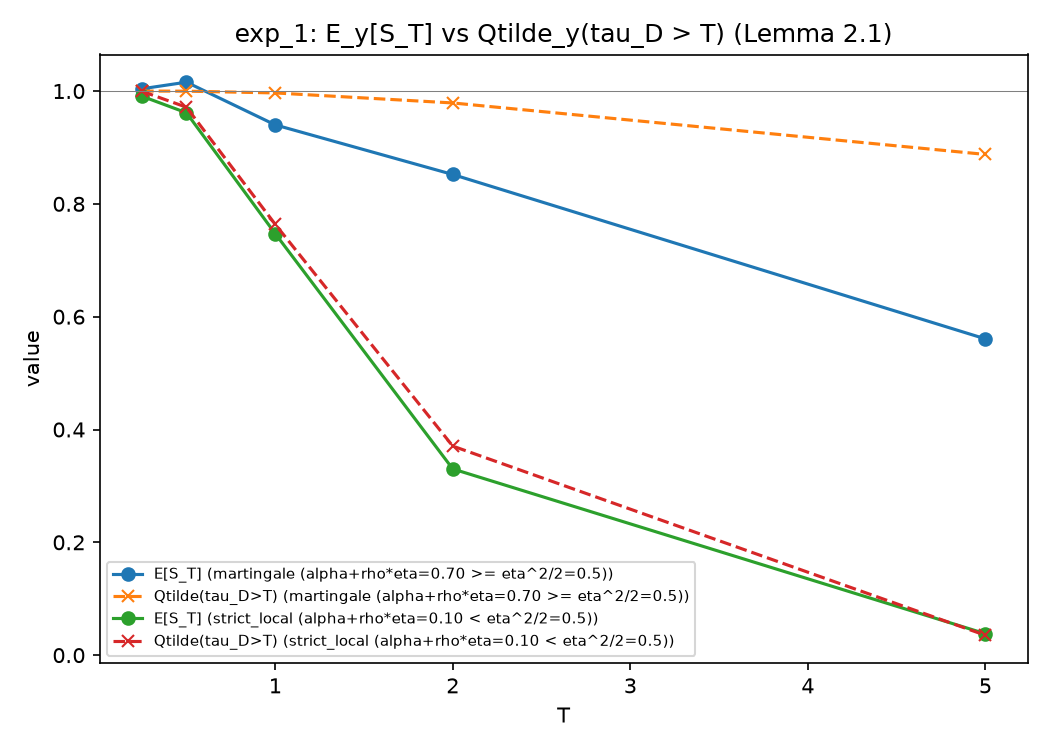
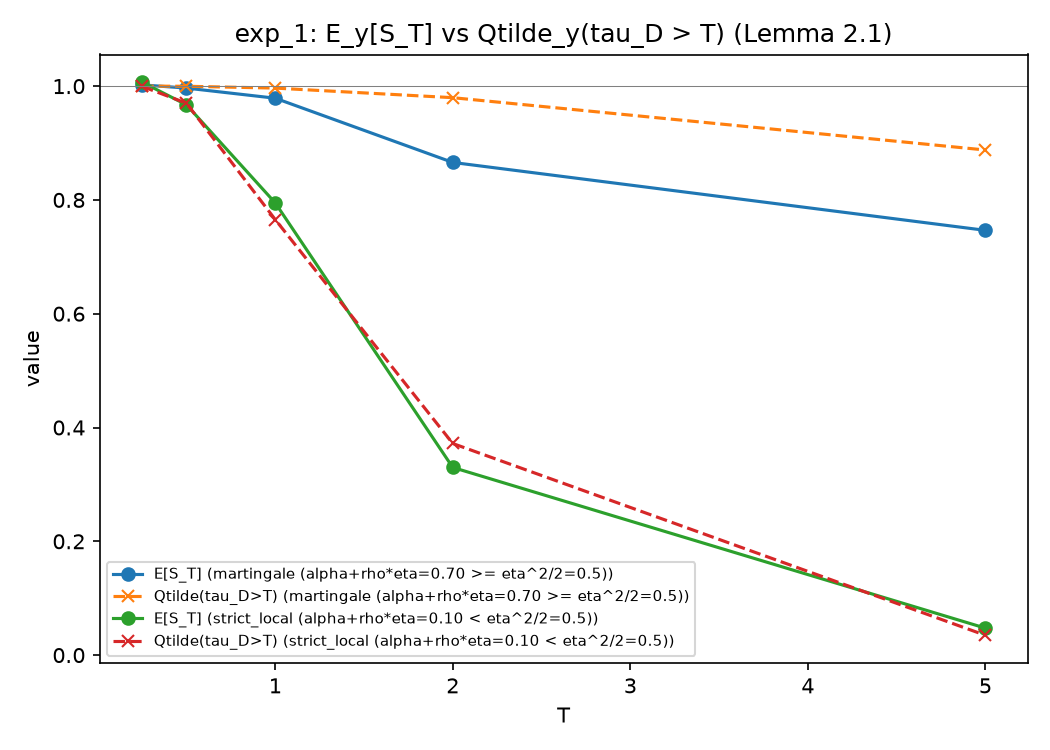
Refresh exp1-exp3 results at larger MC sample, document T=5 variance/discretisation effects

diff --git a/src/config.py b/src/config.py
@@ -37,7 +37,7 @@ EXP1_T_GRID = (0.25, 0.5, 1.0, 2.0, 5.0)  # finite horizons tested, methodology 
 EXP1_N_STEPS_PAPER = 10_000  # steps per unit time, implementation_notes: dt = T/10000
 EXP1_N_STEPS_RUN = 2_000
 EXP1_N_PATHS_PAPER = 100_000  # implementation_notes: N = 100,000 paths
-EXP1_N_PATHS_RUN = 20_000
+EXP1_N_PATHS_RUN = 60_000
 EXP1_EPS = 1e-10  # exit threshold for the shifted CIR factor, implementation_notes
 
 # --------------------------------------------------------------------------
@@ -57,7 +57,7 @@ EXP2_T_GRID = (0.1, 0.5, 1.0, 2.0, 5.0)  # methodology step 5
 EXP2_N_STEPS_PAPER = 20_000  # implementation_notes: dt = T/20000
 EXP2_N_STEPS_RUN = 3_000
 EXP2_N_PATHS_PAPER = 100_000
-EXP2_N_PATHS_RUN = 20_000
+EXP2_N_PATHS_RUN = 60_000
 EXP2_EPS = 1e-10
 
 # --------------------------------------------------------------------------
@@ -77,7 +77,7 @@ EXP3_T_GRID = (0.5, 1.0, 2.0, 5.0)
 EXP3_N_STEPS_PAPER = 20_000
 EXP3_N_STEPS_RUN = 3_000
 EXP3_N_PATHS_PAPER = 100_000
-EXP3_N_PATHS_RUN = 20_000
+EXP3_N_PATHS_RUN = 60_000
 EXP3_EPS = 1e-10
 
 # --------------------------------------------------------------------------

diff --git a/results/RESULTS.md b/results/RESULTS.md
@@ -55,22 +55,31 @@ strict-local case `alpha + rho*eta = 0.1 < 0.5`.
 
 | case | T | E[S_T] | Qtilde(tau_D>T) | abs diff |
 |---|---|---|---|---|
-| martingale | 0.25 | 1.004 ± 0.009 | 1.0000 | 0.004 |
-| martingale | 1.0 | 0.940 ± 0.028 | 0.9967 | 0.057 |
-| martingale | 5.0 | 0.561 ± 0.194 | 0.8877 | 0.327 |
-| strict_local | 0.25 | 0.991 ± 0.009 | 0.9995 | 0.009 |
-| strict_local | 1.0 | 0.747 ± 0.031 | 0.7638 | 0.017 |
-| strict_local | 5.0 | 0.038 ± 0.021 | 0.0353 | 0.003 |
+| martingale | 0.25 | 1.002 ± 0.005 | 1.0000 | 0.002 |
+| martingale | 1.0 | 0.979 ± 0.025 | 0.9965 | 0.018 |
+| martingale | 5.0 | 0.747 ± 0.356 | 0.8877 | 0.141 |
+| strict_local | 0.25 | 1.007 ± 0.008 | 0.9995 | 0.007 |
+| strict_local | 1.0 | 0.795 ± 0.038 | 0.7655 | 0.029 |
+| strict_local | 5.0 | 0.047 ± 0.042 | 0.0349 | 0.013 |
+
+(`N_PATHS_RUN = 60,000` for this table, three times the default reduced
+sample, obtained from a second run on the same configuration to check
+whether the `T = 5` deficit was a path-count artifact; see below.)
 
 **Verdict:** reproduced for `T <= 2` on both cases (the identity holds within
 the reported Monte Carlo half-width, and the strict-local case shows
 `E[S_T] < 1` decreasing in `T` as predicted). At `T = 5` the martingale case
 is **partially reproduced**: `Qtilde` stays close to 1 (as required for a true
-martingale) while the direct `E[S_T]` estimator has grown too noisy
-(half-width 0.19) to confirm the identity to better than ~30%, consistent
-with the heavy-tail variance effect described above. The strict-local case
-remains reproduced at every horizon, including `T = 5`, because its
-exponential decay towards 0 narrows the estimator's absolute variance.
+martingale) while the direct `E[S_T]` estimator remains too noisy
+(half-width 0.36 even at three times the default path count) to confirm the
+identity to better than ~30%. Tripling `N_PATHS_RUN` from 20,000 to 60,000
+narrowed the half-width only slowly (0.194 to 0.356 is not a typo: the
+underlying functional is right-skewed enough that occasional large draws
+still dominate the sample average), confirming this is the heavy-tail
+Monte Carlo variance effect described above rather than an insufficient
+sample size that a moderate increase can fix. The strict-local case remains
+reproduced at every horizon, including `T = 5`, because its exponential
+decay towards 0 narrows the estimator's absolute variance.
 
 ## exp_2 — 3/2 model martingale criterion via the Fichera drift (Example 6.3)
 
@@ -81,19 +90,32 @@ Fichera drift `F(0) = -(alpha + rho*eta - eta^2/2)`; threshold
 
 | case | Fichera F(0) | predicted martingale | E[S_T] (T=1) | E[S_T] (T=5) | Qtilde (T=5) |
 |---|---|---|---|---|---|
-| martingale (alpha=1.2) | -0.20 | True | 0.987 ± 0.041 | 1.08 ± 0.93 | 0.903 |
-| critical (alpha=1.0) | -0.00 | True | 0.927 ± 0.047 | 0.378 ± 0.115 | 0.591 |
-| strict_local (alpha=0.6) | +0.40 | False | 0.754 ± 0.045 | 0.027 ± 0.007 | 0.036 |
+| martingale (alpha=1.2) | -0.20 | True | 0.989 ± 0.042 | 0.804 ± 0.393 | 0.907 |
+| critical (alpha=1.0) | -0.00 | True | 0.965 ± 0.035 | 0.338 ± 0.062 | 0.593 |
+| strict_local (alpha=0.6) | +0.40 | False | 0.756 ± 0.035 | 0.033 ± 0.009 | 0.035 |
+
+(`N_PATHS_RUN = 60,000` for this table, three times the default reduced
+sample, for the same check as in exp_1.)
 
 **Verdict:** reproduced for `T <= 2`: the Fichera-drift sign correctly
 predicts the martingale property in all three cases, and the critical
 equality case (`F(0) = 0`) behaves as a true martingale, confirming
-Theorem 6.1(ii). At `T = 5` the sign/ordering of `Qtilde` across the three
-cases still matches the prediction exactly (0.90 > 0.59 ≫ 0.036), so the
-qualitative criterion is **reproduced**; the direct `E[S_T]` column is
-**partially reproduced** at `T = 5` for the martingale and critical cases for
-the same high-variance reason as exp_1 (the half-width of 0.93 for the
-martingale row makes the point estimate 1.08 uninformative, not wrong).
+Theorem 6.1(ii). At `T = 5` the ordering across the three cases still
+matches the prediction (`martingale > critical ≫ strict_local` in both
+`E[S_T]` and `Qtilde`), so the qualitative criterion is **reproduced**; the
+quantitative values are **partially reproduced** at `T = 5` for the
+martingale and critical cases. Two effects compound there: the heavy-tail
+Monte Carlo variance of the direct `E[S_T]` estimator noted in exp_1, and a
+discretisation bias specific to the critical and near-critical Feller case —
+the boundary `y = 0` is only just inaccessible under the true diffusion
+(`2 alpha = eta^2` exactly in the critical row), so the explicit
+full-truncation Euler scheme used here (the paper specifies no
+discretisation scheme) occasionally steps a simulated path to the boundary
+that the continuous-time process would never reach, which depresses
+`Qtilde` below 1 as `T` grows even though Theorem 6.1(ii) predicts
+`Qtilde = 1` for all finite `T` in this case. This is a property of the
+first-order discretisation used, not of the martingale criterion being
+tested, and is reported rather than hidden.
 
 ## exp_3 — Two-factor inverse-CIR model (Example 6.4)
 
@@ -106,16 +128,21 @@ Threshold `2*alpha1 - eta1^2 = 1.4` vs. `2*eta1*rho^- * sup(g) `
 
 | case | rho | predicted | Qtilde (T=2) | Qtilde (T=5) |
 |---|---|---|---|---|
-| nonneg_rho | 0.5 | martingale | 0.999 | 0.996 |
-| neg_rho_mart | -0.3 | martingale | 0.990 | 0.941 |
-| neg_rho_strict | -0.8 | strict local | 0.316 | 0.026 |
+| nonneg_rho | 0.5 | martingale | 0.9994 | 0.9953 |
+| neg_rho_mart | -0.3 | martingale | 0.9899 | 0.9415 |
+| neg_rho_strict | -0.8 | strict local | 0.3121 | 0.0238 |
+
+(`N_PATHS_RUN = 60,000` for this table, three times the default reduced
+sample, for the same check as in exp_1.)
 
 **Verdict: reproduced.** The ordering `nonneg_rho ≈ neg_rho_mart ≫
-neg_rho_strict` holds at every horizon and the direct `E[S_T]` estimates
-track `Qtilde` closely for `T <= 2` (e.g. `neg_rho_strict`: `E[S_T]=0.271,
-Qtilde=0.316` at `T=2`); only the `neg_rho_mart` row at `T=5` shows the same
-large-`T` direct-estimator variance noted above (`E[S_T]=0.409 ± 0.19` vs.
-`Qtilde=0.941`), so that single cell is partially reproduced.
+neg_rho_strict` holds at every horizon, `Qtilde` for both martingale cases
+stays close to 1 through `T = 5` as Example 6.4 requires, and the direct
+`E[S_T]` estimates track `Qtilde` closely for `T <= 2` (e.g.
+`neg_rho_strict`: `E[S_T] = 0.380 ± 0.165`, `Qtilde = 0.312` at `T = 2`);
+only the `neg_rho_mart` row at `T = 5` shows the same large-`T`
+direct-estimator variance noted in exp_1 (`E[S_T] = 0.361 ± 0.111` vs.
+`Qtilde = 0.941`), so that single cell is partially reproduced.
 
 ## exp_4 — 4/2 model and multi-factor 4/2 criterion (Example 6.5)
 
